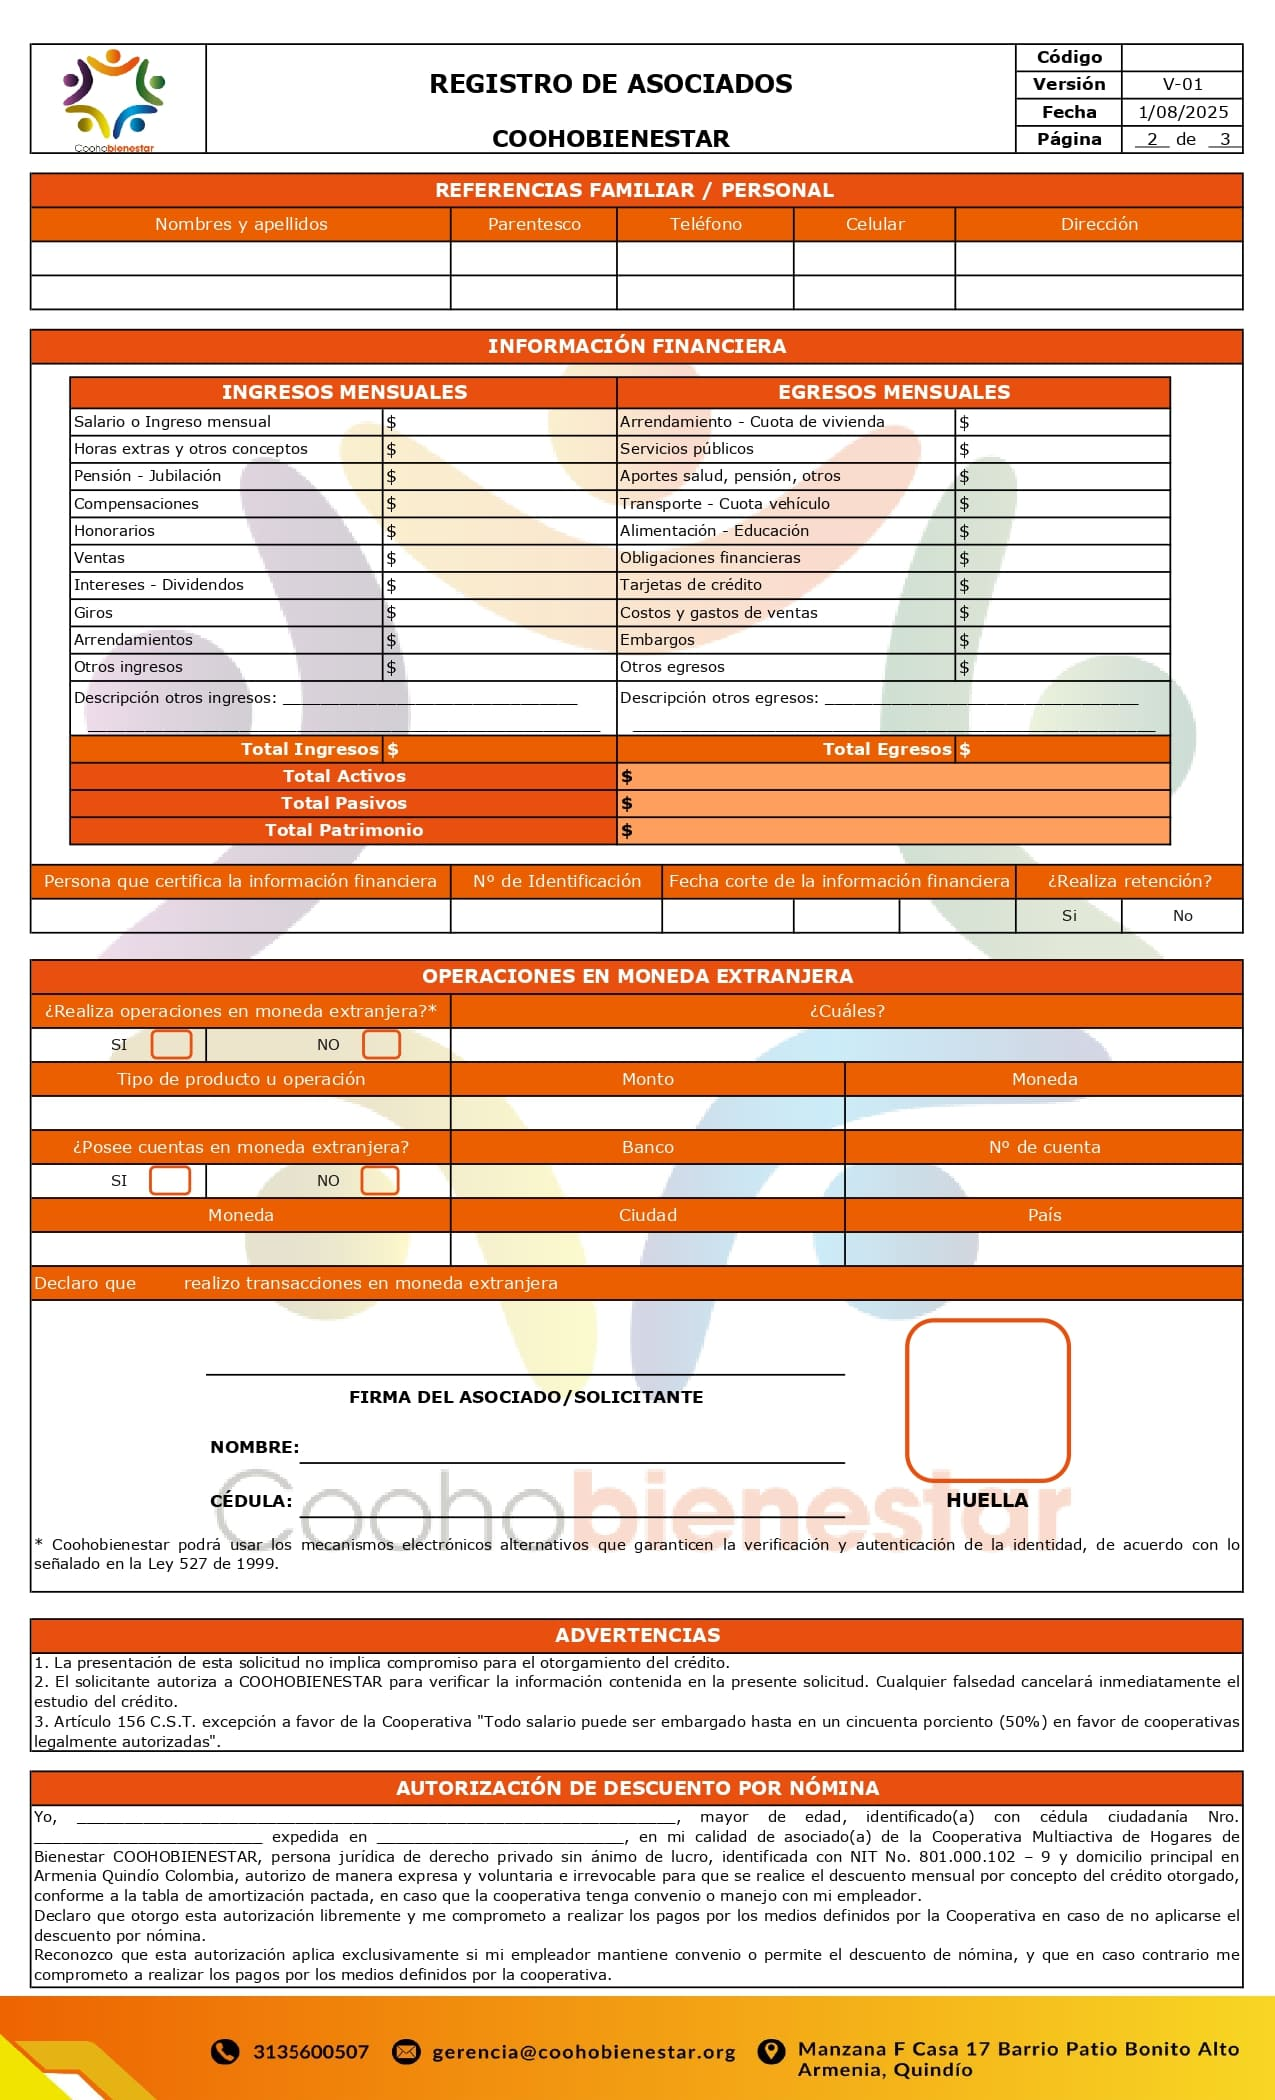
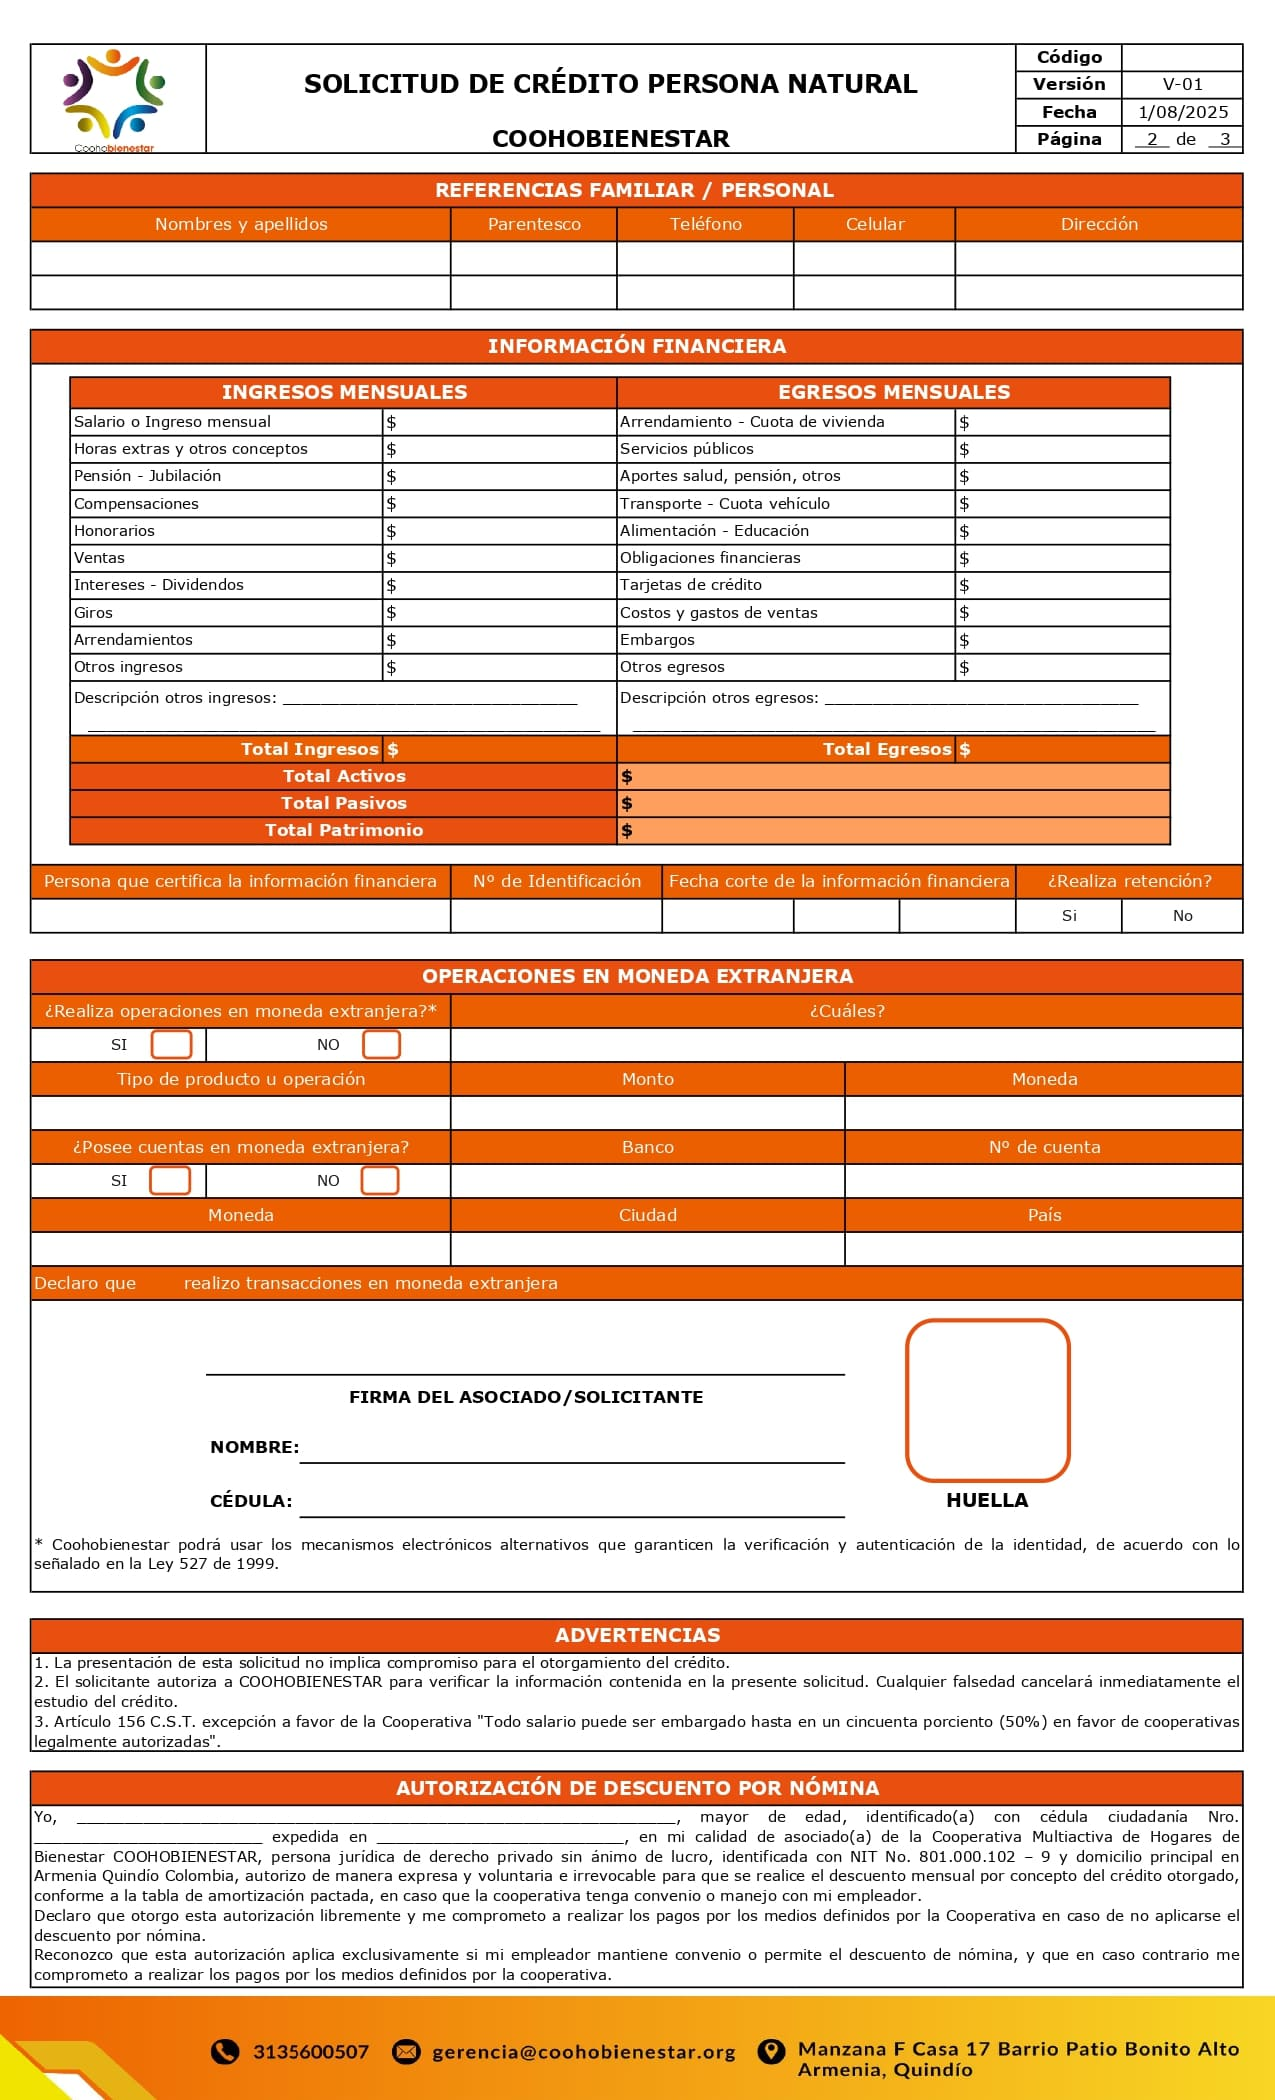
se corrige modal en credito al momento de editar, tomaba la fecha actual y no la guardada en la db, se actualiza hoja 2,3 de la solicitud de credito, se modifica porcentaje de anticipo de 0.15 a 0.10 en las ventas de productos

diff --git a/templates/base/historico/crearHistoricoCredito.html b/templates/base/historico/crearHistoricoCredito.html
@@ -8,6 +8,7 @@
             <h6 class="text-light mb-0">{{ asociado.nombre }} {{ asociado.apellido }}</h6>
           </div>
           <input type="hidden" id="pkAsociado" value="{{ asociado.pk }}">
+          <input type="hidden" id="estado" value="{{ create }}">
           <button type="button" class="btn-close btn-close-white" data-bs-dismiss="modal" aria-label="Close"></button>
         </div>
 
@@ -171,8 +172,13 @@
       tablaBody.innerHTML = "";
 
       // Obtiene la fecha actual en formato YYYY-MM-DD y la asigna al input de fecha
-      let today = new Date().toISOString().split('T')[0];  // Obtiene la fecha en formato YYYY-MM-DD
-      document.getElementById("fechaSolicitud").value = today;
+      const tipoEstado = document.getElementById("estado").value;
+
+      // Solo asigna fecha al input cuando es un create.
+      if (tipoEstado === 'True') {
+        let today = new Date().toISOString().split('T')[0];  // Obtiene la fecha en formato YYYY-MM-DD
+        document.getElementById("fechaSolicitud").value = today;
+      }
     });
 
 

diff --git a/templates/base/ventas/crearVentaAsociado.html b/templates/base/ventas/crearVentaAsociado.html
@@ -393,7 +393,7 @@ $('#creacion').on('shown.bs.modal', function () {
 
     observerValorBruto.observe(inputValorBruto, { attributes: true, attributeFilter: ['value'] });
 
-    // 🔹 VALIDACIÓN DEL ANTICIPO - Solo permite valores >= al mínimo
+    // VALIDACIÓN DEL ANTICIPO - Solo permite valores >= al mínimo
     inputAnticipo.addEventListener('input', () => {
         let valorIngresado = parseInt(inputAnticipo.value.replace(/\D/g, '')) || 0;
         
@@ -420,7 +420,7 @@ $('#creacion').on('shown.bs.modal', function () {
     // Función para calcular el 15% de anticipo
     function calcularAnticipo() {
         const valorBruto = parseInt(inputValorBruto.value.replace(/\D/g, '')) || 0;
-        anticipoMinimo = Math.floor(valorBruto * 0.15);
+        anticipoMinimo = Math.floor(valorBruto * 0.10); // 0.15 % 
         
         // Solo actualizar el valor si está vacío o es menor al mínimo
         const valorActual = parseInt(inputAnticipo.value.replace(/\D/g, '')) || 0;

diff --git a/static/js/formatos.js b/static/js/formatos.js
@@ -1356,7 +1356,7 @@ async function generarPDFSolicitudCredito(url, datos) {
     // renglon 7
     pdf.text(datos.deptoResidencia, 21.7, 589.5);
     pdf.text(datos.email, 125.7, 589.5);
-    pdf.text(datos.numResidencia, 385, 589.5);
+    writeText(pdf, datos.numResidencia, 385, 589.5);
     pdf.text(datos.numCelular, 492.4, 589.5);
 
     // renglon 8

diff --git a/staticfiles/js/formatos.js b/staticfiles/js/formatos.js
@@ -1356,7 +1356,7 @@ async function generarPDFSolicitudCredito(url, datos) {
     // renglon 7
     pdf.text(datos.deptoResidencia, 21.7, 589.5);
     pdf.text(datos.email, 125.7, 589.5);
-    pdf.text(datos.numResidencia, 385, 589.5);
+    writeText(pdf, datos.numResidencia, 385, 589.5);
     pdf.text(datos.numCelular, 492.4, 589.5);
 
     // renglon 8
